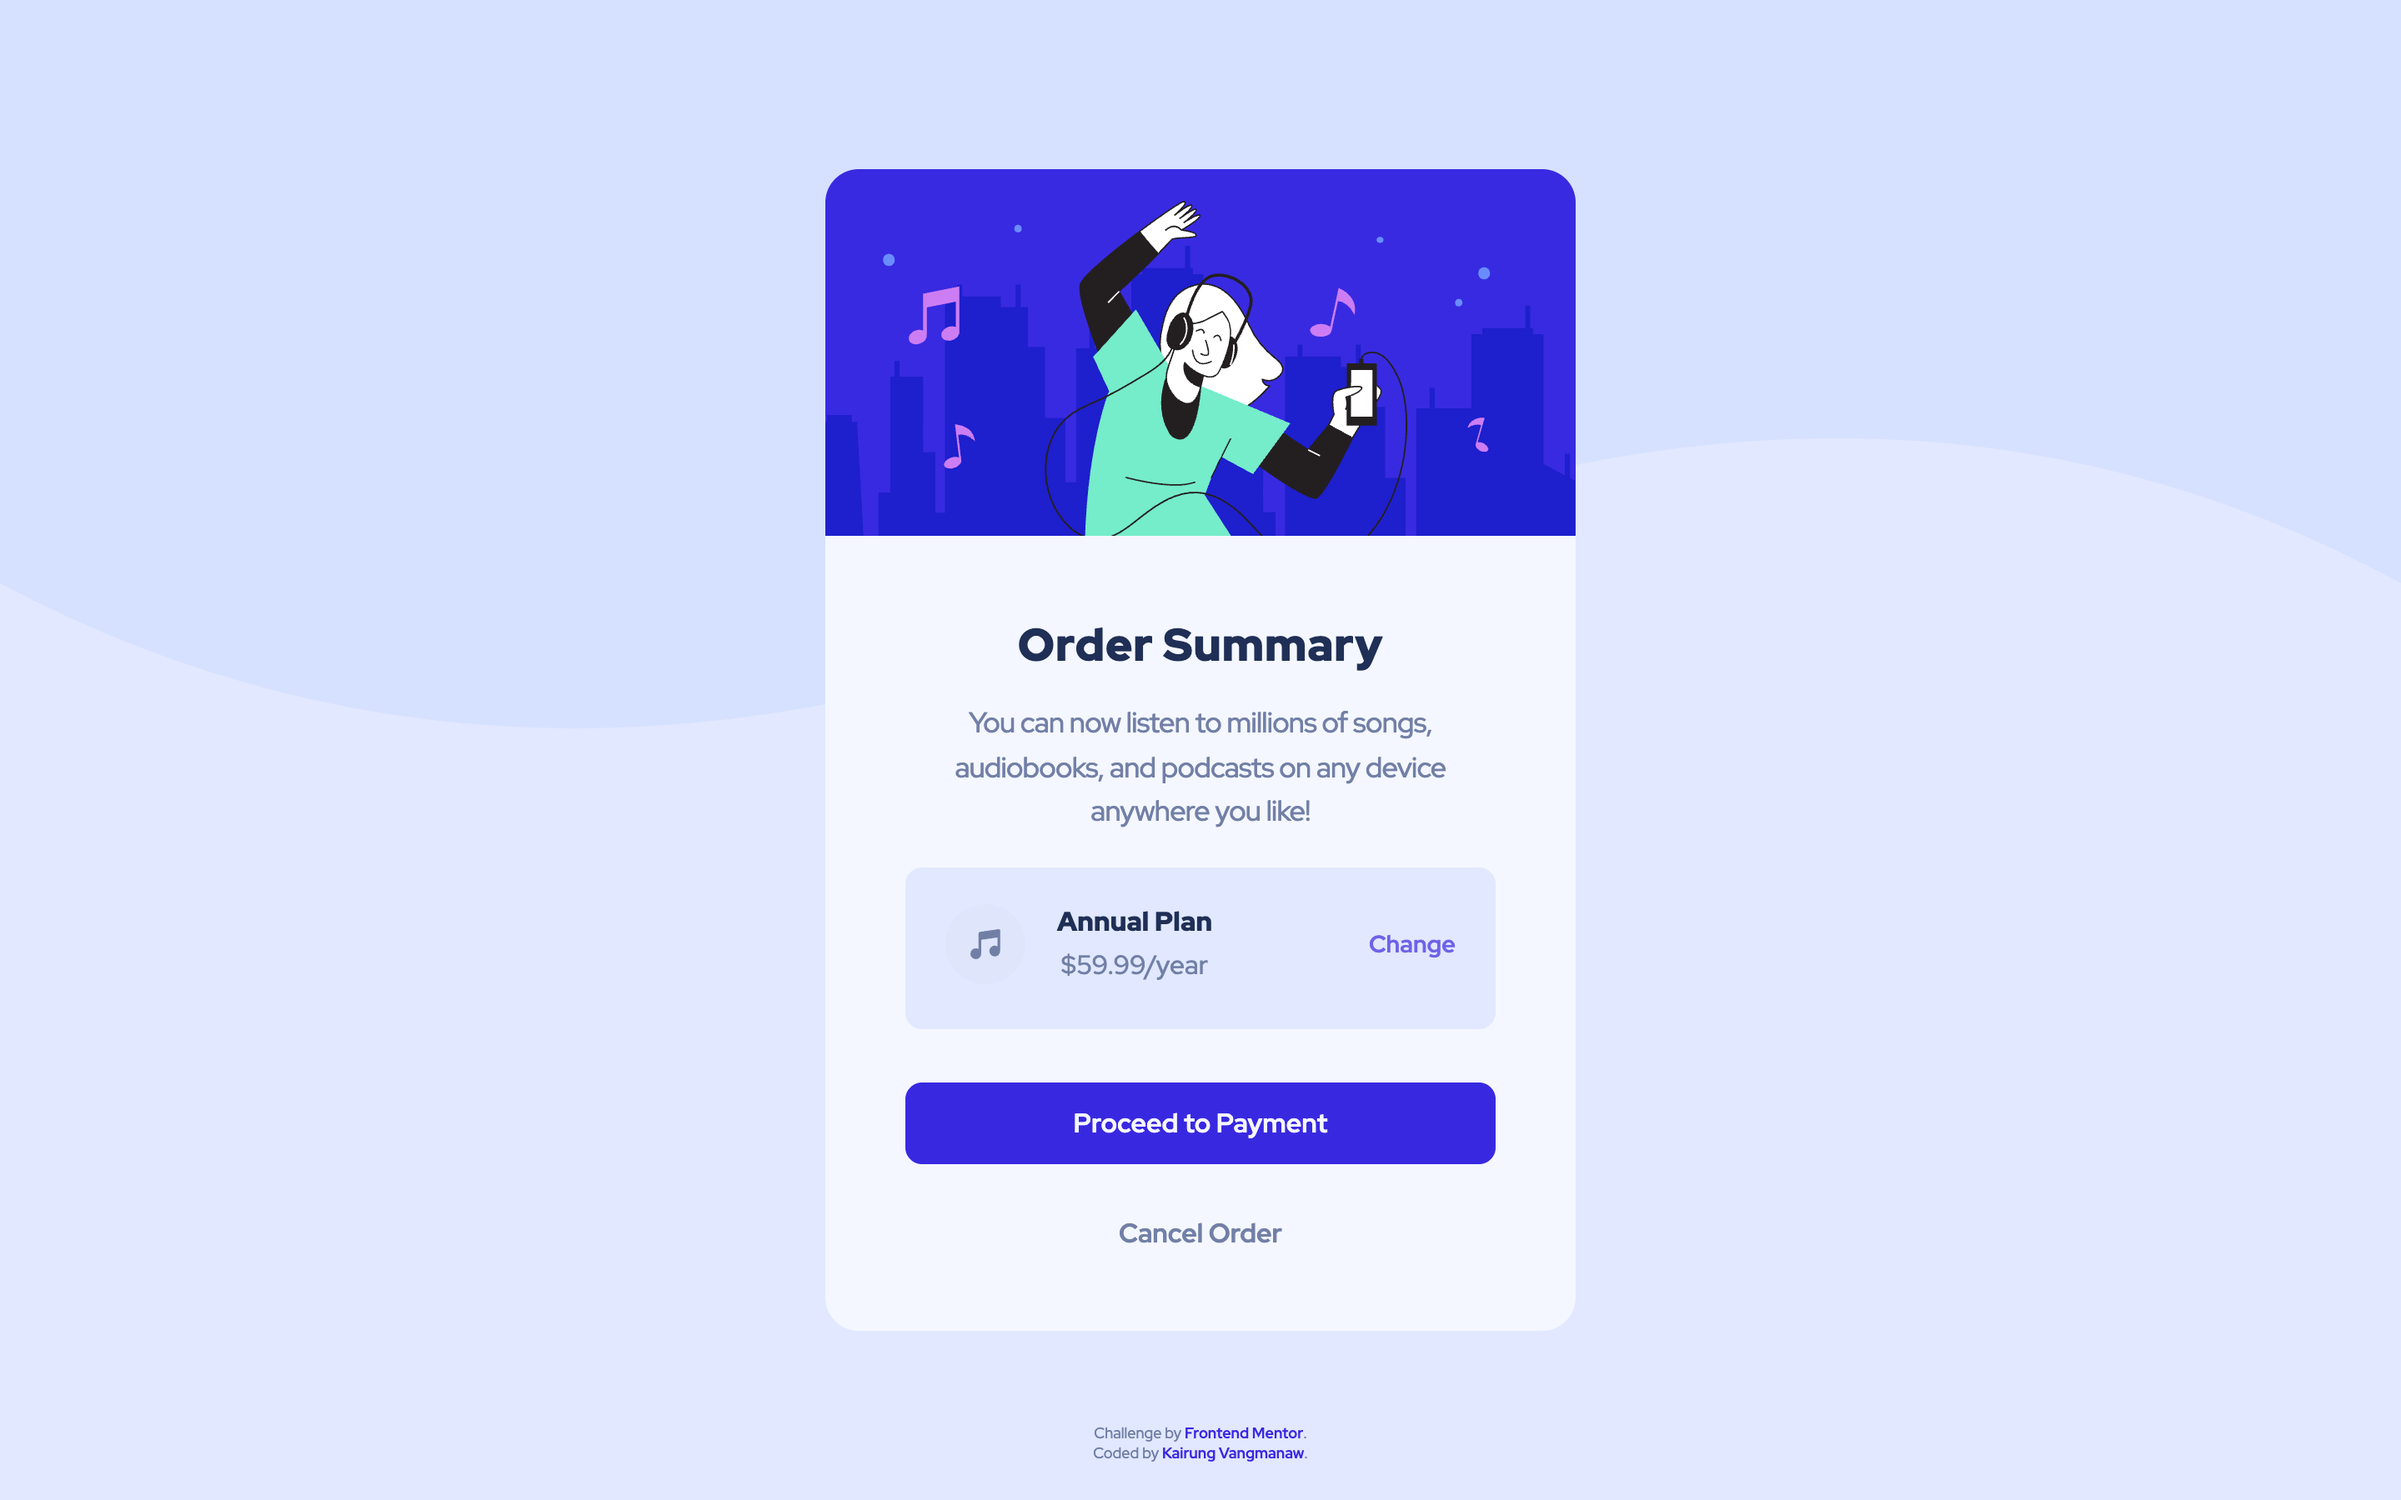
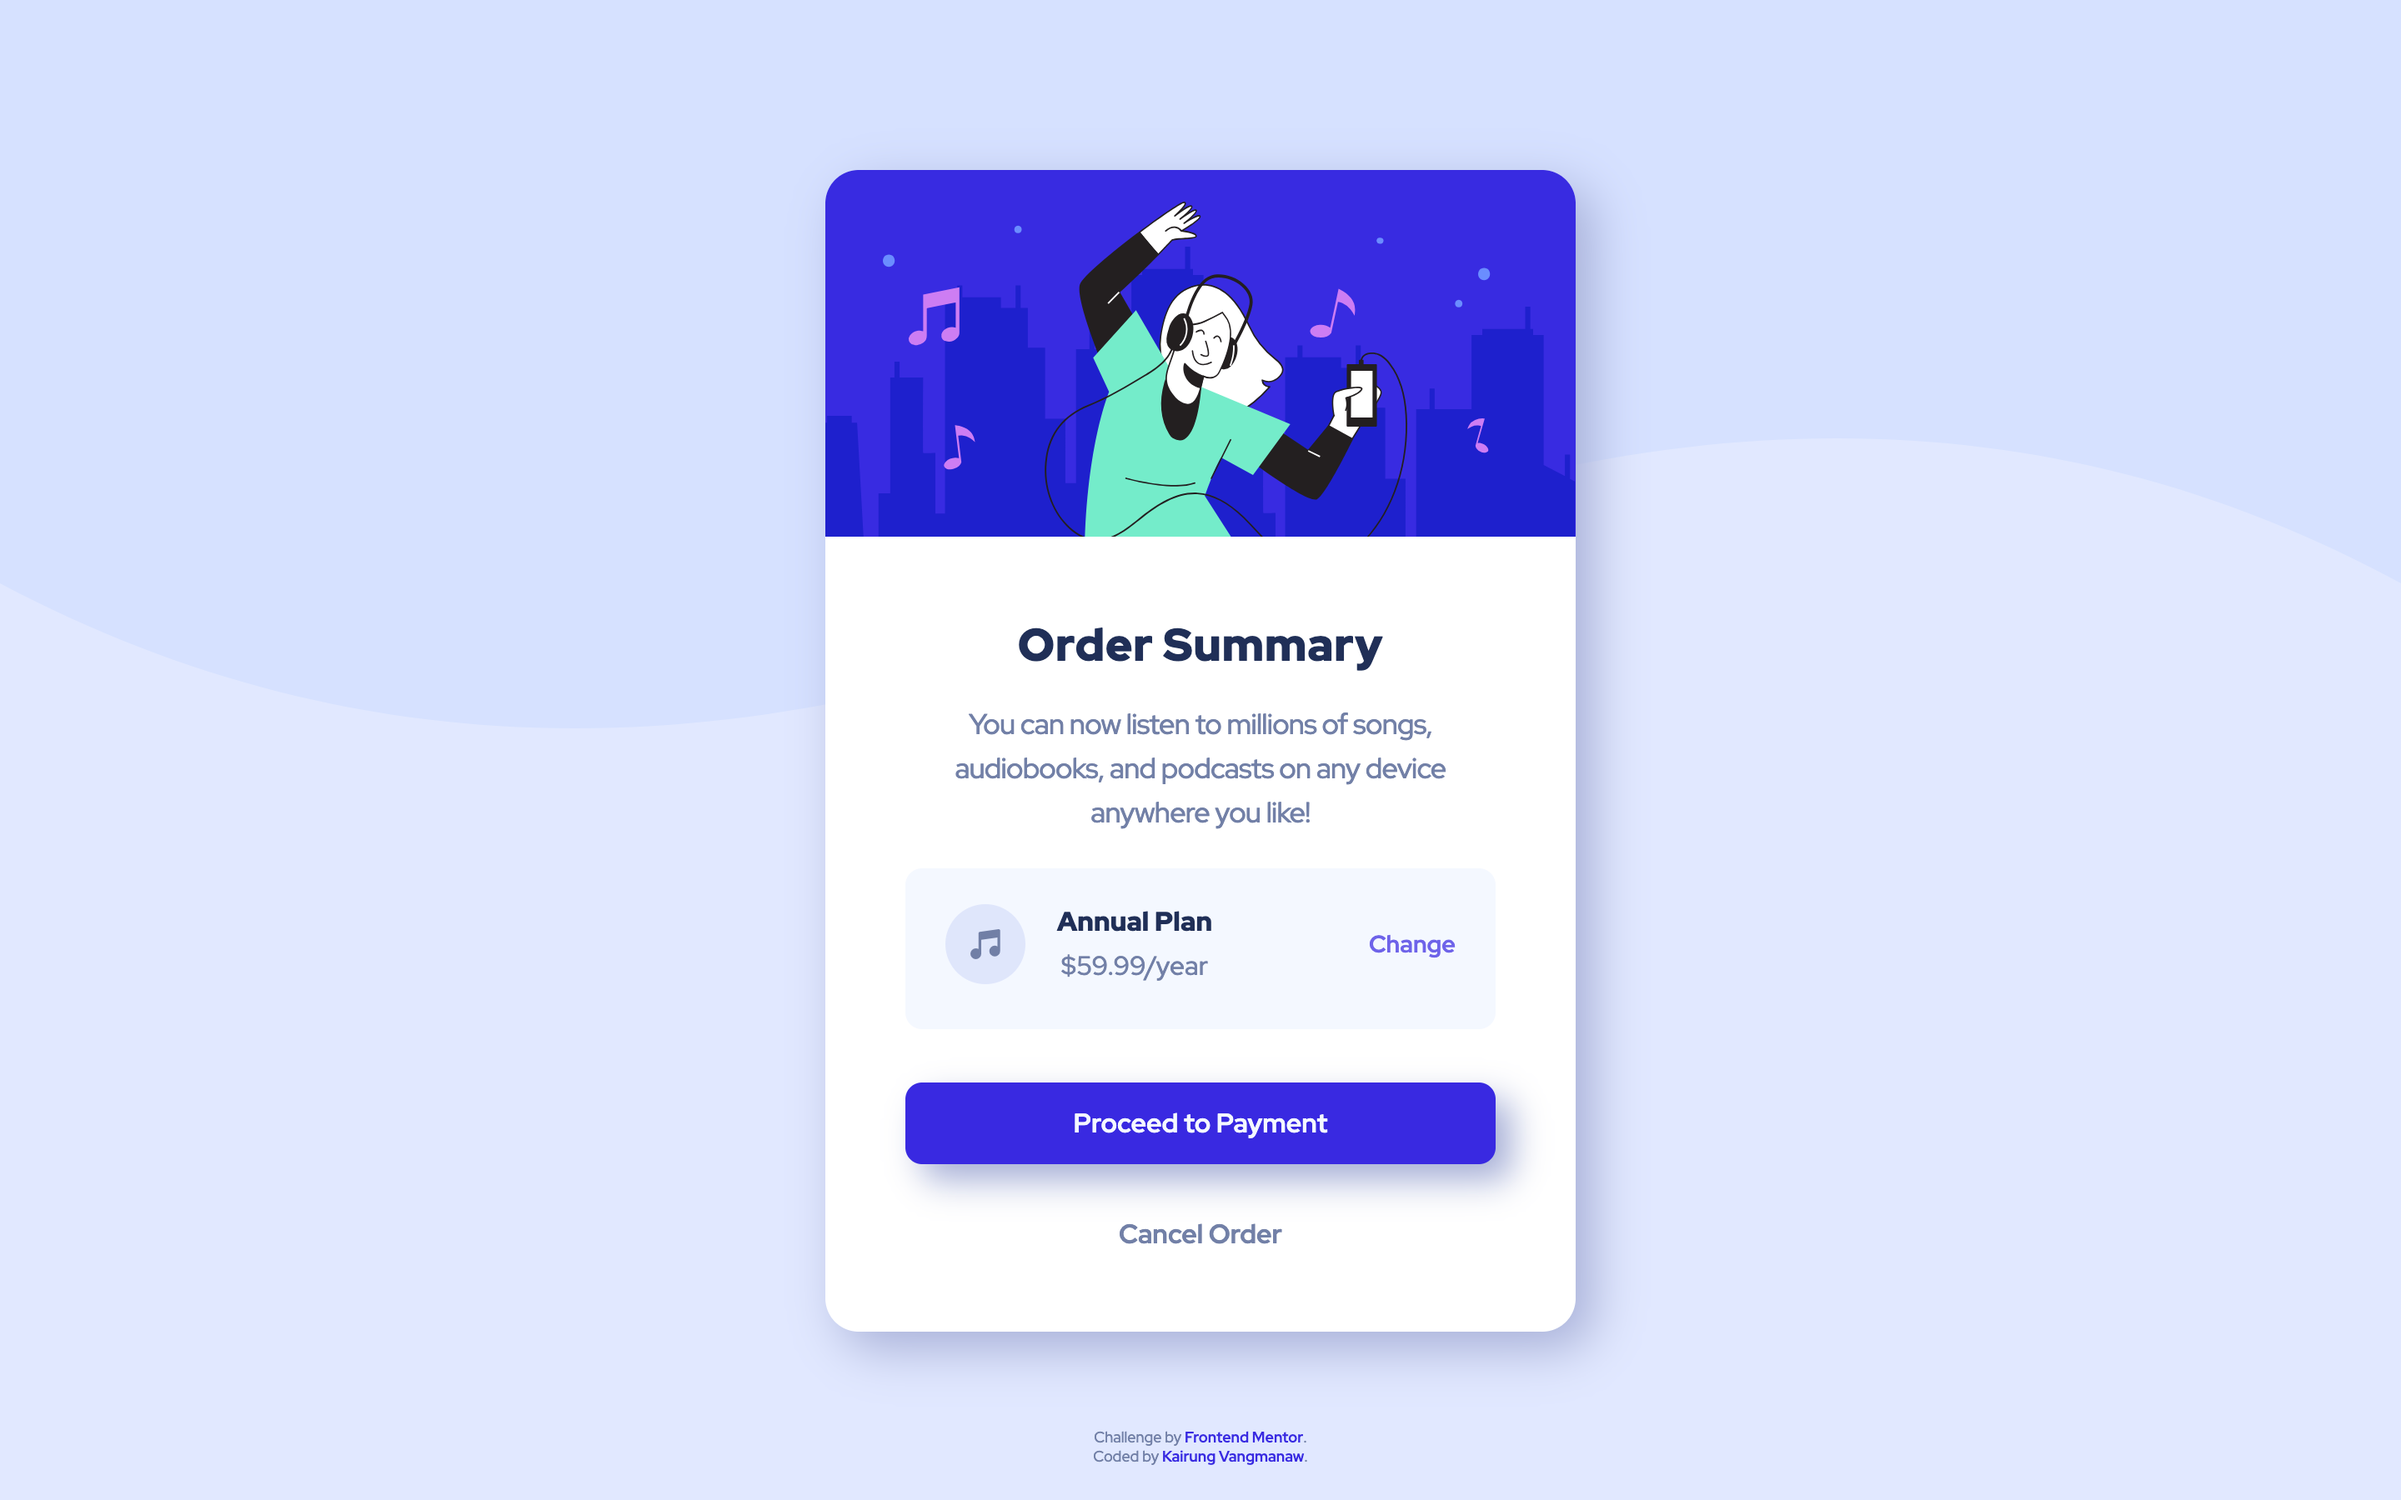
Fix shadow

diff --git a/index.html b/index.html
@@ -29,7 +29,7 @@
         --blue-950: hsl(223, 47%, 23%);
         --light-blue-hover: hsl(245, 75%, 65%);
         --white: hsl(0, 0%, 100%);
-        --shadow: hsla(223, 47%, 23%, 0.2);
+        --shadow: rgb(166, 174, 214);
         --font-family: "Red Hat Display", sans-serif;
         --font-size: 16px;
         --font-weight-regular: 500;
@@ -77,7 +77,7 @@
 
         transition: all 0.3s ease;
 
-        box-shadow: 10px 10px 30px var(--gray-600);
+        box-shadow: 10px 10px 30px var(--shadow);
 
         section.card-cover {
           width: 100%;
@@ -171,6 +171,7 @@
             color: var(--blue-50);
             border-radius: 10px;
             margin-bottom: 21px;
+            box-shadow: 10px 10px 20px var(--shadow);
           }
 
           button.proceed-payment:hover {
